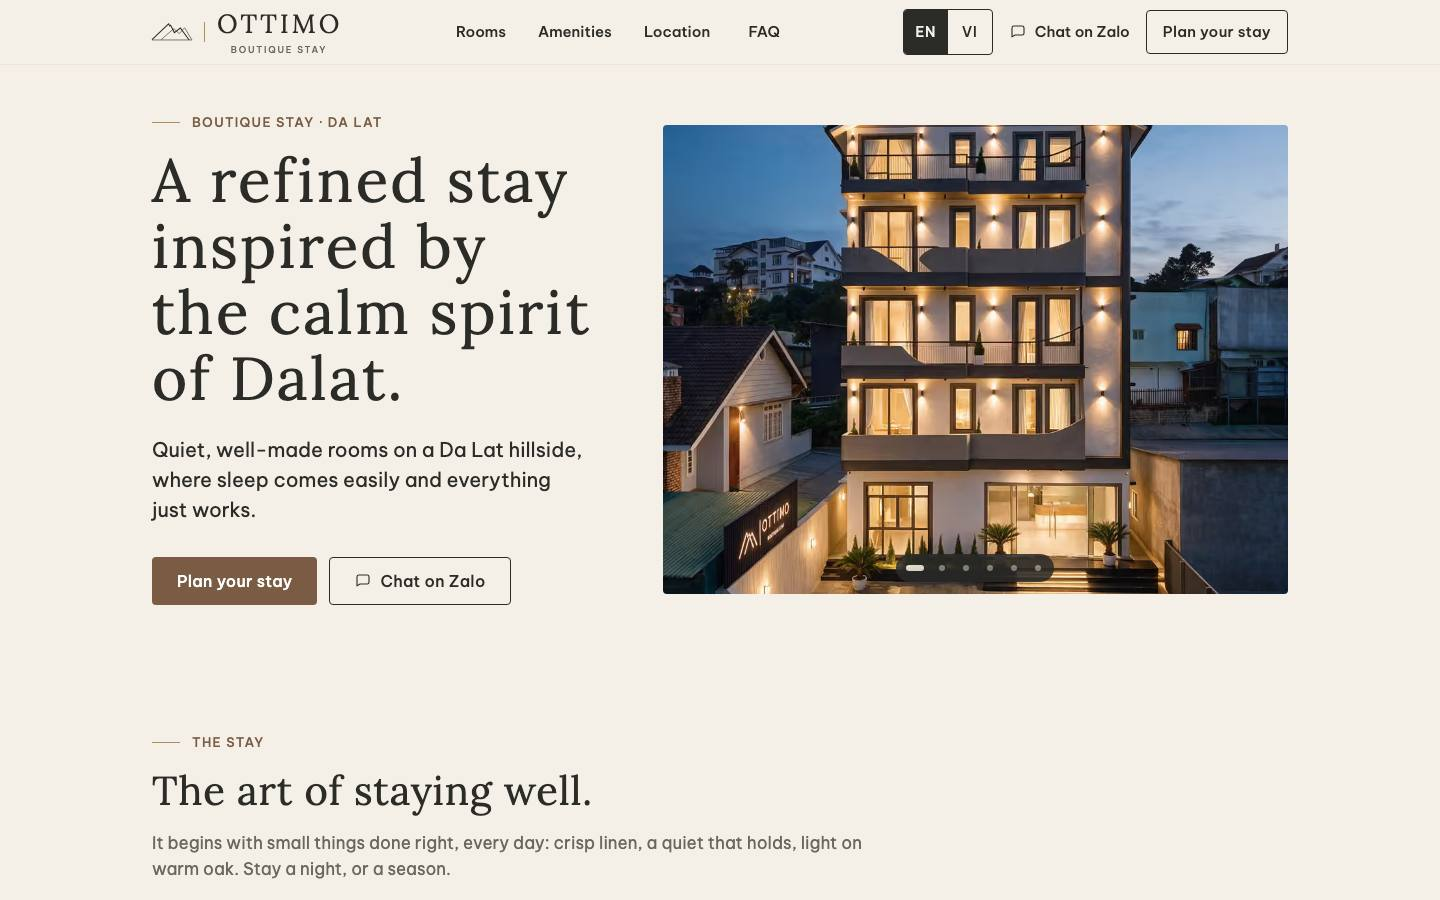
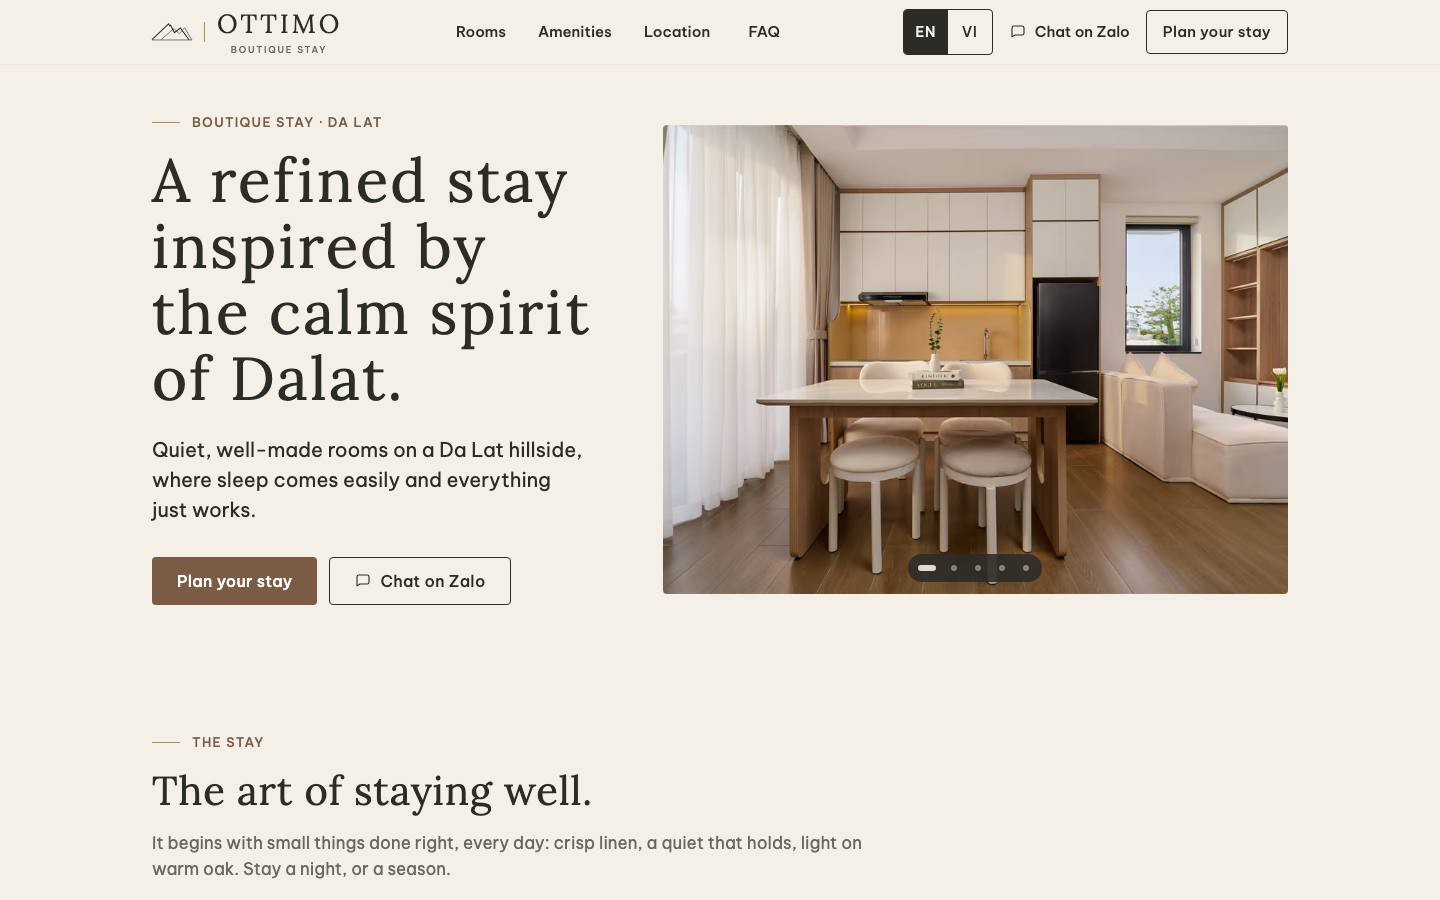
round-3: Phản hồi & sửa – FE-LP hero landscape-only (32/9/37/16/33), facade dusk moved to #book (INV 25/10)
- HERO_PICKS = 32, 9, 37, 16, 33; a portrait pick (< 4/3) stops the build.
  LCP = first slide (signature-dining: 7.3 / 20.0 / 45.2 KB AVIF 480/960/1600),
  preloaded from HERO_SLIDES[0]; dist checks and the Playwright budget read
  the LCP id from the preload (only high-priority fetches count as the hero).
- Hero frame: 3/2 on phones and tablets (whole photo), 4/3 + per-id focus on
  desktop.
- Facade at dusk (picker 4, id hero-facade-dusk) in #book: portrait 4/5
  column on the left on desktop, full width above the steps on phones, lazy.
  OG image unchanged.
- Tests: slide 1 = first landscape pick, every hero photo >= 4/3, LCP/eager
  image rule fixture, hero slides 6 -> 5.

Changed region(s): [[0.4375, 0.1244, 0.9062, 0.6844]]

diff --git a/product/apps/landing-web/src/content/copy.test.ts b/product/apps/landing-web/src/content/copy.test.ts
@@ -5,8 +5,23 @@ import { BANNED } from '../../scripts/dist-checks.mjs';
 import { plain } from '../lib/rich';
 import { BOOKING_STRINGS } from '../scripts/booking-strings';
 import { en } from './en';
-import { AMENITIES_PHOTO, GALLERY_TARGET, HERO_INTERVAL_MS, ROOM_GALLERIES } from './gallery';
-import { HERO_EXCLUDED, HERO_PICKS, HERO_SLIDES, PICKER_SOURCES, photoIdForPick } from './hero';
+import {
+  AMENITIES_PHOTO,
+  BOOK_PHOTO,
+  GALLERY_TARGET,
+  HERO_INTERVAL_MS,
+  ROOM_GALLERIES,
+} from './gallery';
+import {
+  HERO_EXCLUDED,
+  HERO_MIN_RATIO,
+  HERO_PICKS,
+  HERO_SLIDES,
+  PICKER_SOURCES,
+  heroPhotoForPick,
+  photoIdForPick,
+  photoRatio,
+} from './hero';
 import manifest from '../assets/photos/manifest.json';
 import { isOttimoMailbox, site, siteSchema } from './site';
 import raw from './site.json';
@@ -95,7 +110,7 @@ describe('page copy EN + VI', () => {
 
   it('every photo used by the copy has an alt text in both languages', () => {
     const used = [
-      'hero-facade-dusk',
+      BOOK_PHOTO,
       en.why.short.photo,
       en.why.long.photo,
       ...en.rooms.items.map((r) => r.photo),
@@ -116,7 +131,12 @@ describe('page copy EN + VI', () => {
       expect(en.photoAlt[id], `EN alt ${id}`).toBeTruthy();
       expect(vi.photoAlt[id], `VI alt ${id}`).toBeTruthy();
     }
-    expect(HERO_SLIDES[0]).toBe('hero-facade-dusk'); // LCP image stays first (preload in Base.astro, OG image)
+    // LCP image = the first landscape pick (preload in Base.astro); INV 25/10: landscape photos only
+    expect(HERO_SLIDES[0]).toBe(photoIdForPick(HERO_PICKS[0]!));
+    for (const id of HERO_SLIDES)
+      expect(photoRatio(id), `${id} landscape ≥ 4/3`).toBeGreaterThanOrEqual(HERO_MIN_RATIO - 0.01);
+    expect(HERO_SLIDES).not.toContain('hero-facade-dusk'); // the portrait facade lives in #book
+    expect(() => heroPhotoForPick(4)).toThrow(/not landscape/); // a portrait pick stops the build
     expect(new Set(HERO_SLIDES).size).toBe(HERO_SLIDES.length);
     expect(HERO_SLIDES.length).toBeGreaterThanOrEqual(3);
     expect(HERO_INTERVAL_MS).toBe(3000); // INV 22/10
@@ -144,7 +164,13 @@ describe('page copy EN + VI', () => {
     expect(() => photoIdForPick(46)).toThrow(/not a picker number/);
     expect(() => photoIdForPick(1)).toThrow(/optimize-images\.mjs/); // 01a.png is not on the site
     // UXD rule 24/10: editorial photos (The Stay, Amenities, Location) never repeat a hero slide
-    for (const id of [en.why.short.photo, en.why.long.photo, AMENITIES_PHOTO, 'aerial-hillside'])
+    for (const id of [
+      en.why.short.photo,
+      en.why.long.photo,
+      AMENITIES_PHOTO,
+      'aerial-hillside',
+      BOOK_PHOTO,
+    ])
       expect(HERO_SLIDES, `${id} is editorial`).not.toContain(id);
   });
 

diff --git a/product/apps/landing-web/src/content/hero.ts b/product/apps/landing-web/src/content/hero.ts
@@ -56,12 +56,14 @@ export const PICKER_SOURCES: Readonly<Record<number, string>> = {
 };
 
 /**
- * THE ONE PLACE TO CHANGE THE HERO: INV's picker numbers, in order (INV 24/10, CPY concept B 7.2: arrive → live →
- * work → sleep → a smaller room still complete → the shared living room). The first one is the LCP image and must be
- * the photo behind the id `hero-facade-dusk`. A number whose photo is not optimised yet stops the build with the
- * command to run (README "Đổi ảnh đầu trang").
+ * THE ONE PLACE TO CHANGE THE HERO: INV's picker numbers, in order. INV 25/10: **landscape photos only, one photo per
+ * slide** – the portrait facade (picker 4) moved to #book. The first one is the LCP image (preload in Base.astro).
+ * A number whose photo is not optimised yet, or a portrait photo, stops the build (README "Đổi ảnh đầu trang").
  */
-export const HERO_PICKS: readonly number[] = [4, 32, 9, 37, 16, 33];
+export const HERO_PICKS: readonly number[] = [32, 9, 37, 16, 33];
+
+/** Smallest width/height of a hero photo (INV 25/10: landscape only; the desktop frame is 4/3). */
+export const HERO_MIN_RATIO = 4 / 3;
 
 /** Picker numbers INV/CPY ruled out of the hero (FB-INV-003: plants, neighbours' roofs) – copy.test.ts checks. */
 export const HERO_EXCLUDED: readonly number[] = [13, 42, 6, 19, 38];
@@ -80,5 +82,25 @@ export function photoIdForPick(n: number): string {
   return entry.id;
 }
 
+/** Width / height of a photo's largest optimised file (manifest.json). */
+export function photoRatio(id: string): number {
+  const entry = manifest.photos.find((p) => p.id === id);
+  if (!entry) throw new Error(`unknown photo id: ${id}`);
+  const largest = entry.files.reduce((a, b) => (b.width > a.width ? b : a));
+  return largest.width / largest.height;
+}
+
+/** Photo id of a hero pick; throws (= build fails) for a photo that is not landscape ≥ 4/3 (INV 25/10). */
+export function heroPhotoForPick(n: number): string {
+  const id = photoIdForPick(n);
+  // 1600×1067 = 1.4995: compare with a small tolerance for rounding of the encoded height
+  if (photoRatio(id) < HERO_MIN_RATIO - 0.01)
+    throw new Error(
+      `hero photo ${n} (${id}) is not landscape (${photoRatio(id).toFixed(2)} < 4/3): INV 25/10 – landscape only, ` +
+        'use it in another section',
+    );
+  return id;
+}
+
 /** Hero slideshow, in order. The first one is the LCP image (preloaded in layouts/Base.astro). */
-export const HERO_SLIDES: readonly string[] = HERO_PICKS.map(photoIdForPick);
+export const HERO_SLIDES: readonly string[] = HERO_PICKS.map(heroPhotoForPick);

diff --git a/product/tests/e2e/landing/budget.landing.spec.ts b/product/tests/e2e/landing/budget.landing.spec.ts
@@ -63,11 +63,14 @@ async function measure(browser: Browser, c: Case) {
   await cdp.send('Network.enable');
   await cdp.send('Network.setCacheDisabled', { cacheDisabled: true });
   const urls = new Map<string, string>();
+  const priority = new Map<string, string>();
   const headerBytes = new Map<string, number>();
+  const done: { url: string; body: number; priority: string }[] = [];
   let bytes = 0;
-  let hero = 0;
-  let heroFetches = 0;
-  cdp.on('Network.requestWillBeSent', (e) => urls.set(e.requestId, e.request.url));
+  cdp.on('Network.requestWillBeSent', (e) => {
+    urls.set(e.requestId, e.request.url);
+    priority.set(e.requestId, e.request.initialPriority);
+  });
   // At responseReceived, encodedDataLength = bytes received so far = the response headers.
   cdp.on('Network.responseReceived', (e) =>
     headerBytes.set(e.requestId, e.response.encodedDataLength),
@@ -75,15 +78,33 @@ async function measure(browser: Browser, c: Case) {
   cdp.on('Network.loadingFinished', (e) => {
     const body = e.encodedDataLength - (headerBytes.get(e.requestId) ?? 0);
     bytes += body;
-    if (/hero-facade-dusk/.test(urls.get(e.requestId) ?? '')) {
-      hero += body;
-      heroFetches += 1;
-    }
+    done.push({
+      url: urls.get(e.requestId) ?? '',
+      body,
+      priority: priority.get(e.requestId) ?? '',
+    });
   });
   await page.goto(c.path, { waitUntil: 'load' });
   await page.waitForLoadState('networkidle');
   await page.waitForTimeout(300);
   const open = bytes;
+  // The hero = the photo the page preloads (first hero slide, INV 25/10: no longer a fixed id). Counted among the
+  // high-priority fetches only: the same photo may load again later, lazily (low priority), as a room cover.
+  const lcpId = await page.evaluate(() => {
+    const link = document.querySelector<HTMLLinkElement>('link[rel="preload"][as="image"]');
+    const first =
+      (link?.getAttribute('imagesrcset') ?? '').split(',')[0]!.trim().split(/\s+/)[0] ?? '';
+    return first
+      .split('/')
+      .pop()!
+      .replace(/-\d+\.[\w-]+\.avif$/, '');
+  });
+  expect(lcpId, 'the page preloads its hero photo').not.toBe('');
+  const heroHits = done.filter(
+    (d) => d.url.includes(`/${lcpId}-`) && /^(VeryHigh|High)$/.test(d.priority),
+  );
+  const hero = heroHits.reduce((n, d) => n + d.body, 0);
+  const heroFetches = heroHits.length;
   await page.evaluate(async () => {
     const step = Math.floor(window.innerHeight * 0.8);
     for (let y = 0; y < document.documentElement.scrollHeight; y += step) {

diff --git a/product/apps/landing-web/src/styles/landing.css b/product/apps/landing-web/src/styles/landing.css
@@ -582,10 +582,11 @@ h1 {
   margin-inline: calc(var(--gutter) * -1);
   border-radius: 0;
 }
+/* INV 25/10: landscape photos only – phones show the whole 3:2 photo (nothing cropped: washer-dryer in 37, fridge
+   in 33 stay in view). Was 4/5 + max-height 30svh for the portrait facade. */
 .hero-media img {
-  aspect-ratio: 4/5;
-  max-height: 30svh;
-  object-position: 50% 58%;
+  aspect-ratio: 3/2;
+  object-position: 50% 50%;
 }
 .hero-text h1 {
   margin: 0 0 var(--s5);
@@ -639,9 +640,6 @@ h1 {
     object-position: 50% 50%;
   }
   /* Per-photo focus on the 4/3 desktop frame. Ids without a rule stay centred (5.5 % lost each side). */
-  .hero-media img.hero-img--hero-facade-dusk {
-    object-position: 50% 60%; /* 4 – all balconies, sign, entrance */
-  }
   .hero-media img.hero-img--signature-dining {
     object-position: 50% 50%; /* 32 */
   }
@@ -1195,10 +1193,31 @@ table.dist {
   }
 }
 
-/* 6 · Book – how it works + request form (or the Zalo/call block while the form is off) */
+/* 6 · Book – the facade at dusk (portrait, picker 4 – INV 25/10), how it works + request form (or the Zalo/call
+   block while the form is off). Phones: the photo full width above the steps, 4/5. Desktop: a portrait column on the
+   left (Location has its photo on the right). object-position keeps the roof and the entrance steps in the frame. */
 .book {
   display: grid;
   gap: var(--s7);
+}
+.book-main {
+  display: grid;
+  gap: var(--s7);
+}
+.book-pic {
+  margin-inline: calc(var(--gutter) * -1);
+  border-radius: 0;
+}
+.book-pic img {
+  aspect-ratio: 4/5;
+  object-position: 50% 70%;
+}
+@media (min-width: 768px) {
+  .book-pic {
+    margin-inline: 0;
+    border-radius: var(--r);
+    max-width: 480px; /* tablet: a full-width 4/5 photo would fill more than a screen */
+  }
 }
 .steps {
   margin: var(--s5) 0 var(--s5);
@@ -1246,9 +1265,10 @@ table.dist {
     gap: var(--s8);
     align-items: start;
   }
-  .book-intro {
+  .book-pic {
     position: sticky;
     top: calc(var(--header-h) + var(--s6));
+    max-width: none;
   }
 }
 .bk-card {

diff --git a/product/apps/landing-web/src/checks/dist-checks.test.ts b/product/apps/landing-web/src/checks/dist-checks.test.ts
@@ -113,6 +113,35 @@ describe('dist checks catch violations', () => {
     expect(problems).toMatch(/\/vi\/: "hotel\/khách sạn" 1×/);
   });
 
+  it('images: the only eager <img> is the preloaded hero (LCP id read from the preload), with fetchpriority=high', () => {
+    const preload =
+      '<link rel="preload" as="image" imagesrcset="/_astro/room-a-480.X1.avif 480w, /_astro/room-a-960.X2.avif 960w">';
+    const img = (src: string, extra: string) =>
+      `<img src="/_astro/${src}" width="3" height="2" alt="A room" ${extra}>`;
+    const ok = site({
+      'index.html': page(
+        '<h1>x</h1>' +
+          img('room-a-960.X3.webp', 'fetchpriority="high"') +
+          img('room-a-960.X3.webp', 'loading="lazy"'),
+        preload,
+      ),
+    });
+    expect(checks.checkImages(ok)).toEqual([]);
+    const bad = site({
+      'index.html': page(
+        '<h1>x</h1>' +
+          img('room-b-960.X4.webp', 'fetchpriority="high"') +
+          img('room-a-960.X3.webp', ''),
+        preload,
+      ),
+    });
+    const problems = checks.checkImages(bad).join('\n');
+    expect(problems).toMatch(/2 eager <img>/);
+    expect(problems).toMatch(/room-b-960.*not lazy/);
+    expect(problems).toMatch(/room-a-960.*not lazy/); // eager but no fetchpriority=high
+    expect(checks.lcpPhotoId(ok.html[0]!)).toBe('room-a');
+  });
+
   it('a terracotta accent, a named colour and rgb() in CSS', () => {
     const d = site({
       'index.html': page('<h1>x</h1><svg><path fill="#C0634A"></path></svg>'),

diff --git a/product/tests/e2e/landing/gallery.landing.spec.ts b/product/tests/e2e/landing/gallery.landing.spec.ts
@@ -22,8 +22,8 @@ const currentDot = (page: Page) =>
 /** Index of the slide that fills the track (what the guest sees). */
 const visibleSlide = (page: Page) =>
   page.locator('[data-car-track]').evaluate((t) => Math.round(t.scrollLeft / t.clientWidth));
-/** Hero photos = HERO_PICKS in landing-web src/content/hero.ts (INV may send another set: 6 since 24/10). */
-const SLIDES = 6;
+/** Hero photos = HERO_PICKS in landing-web src/content/hero.ts (INV 25/10: 5 landscape photos). */
+const SLIDES = 5;
 
 test.describe('TC-LP-019 hero slideshow (R3-Q52)', () => {
   test('advances on its own every 3 s after load; the next photo loads only shortly before', async ({

diff --git a/product/apps/landing-web/src/content/gallery.ts b/product/apps/landing-web/src/content/gallery.ts
@@ -11,6 +11,12 @@ import type { RoomSlug } from './types';
  */
 export const AMENITIES_PHOTO = 'signature-laundry-dining';
 
+/**
+ * Portrait facade at dusk (picker 4) in #book since 25/10 – INV: the hero shows landscape photos only. Id kept from
+ * its hero days (OG image `pnpm og` and the optimiser use it).
+ */
+export const BOOK_PHOTO = 'hero-facade-dusk';
+
 /** Seconds between two hero photos (INV 22/10: "mỗi 3 giây"). */
 export const HERO_INTERVAL_MS = 3000;
 

diff --git a/rounds/round-03/outputs/FE/landing-b.md b/rounds/round-03/outputs/FE/landing-b.md
@@ -240,3 +240,71 @@ In đậm = ảnh mới ở lượt này. Tất cả qua `optimize-images.mjs --
 - `gallery-city-1440.jpg`, `gallery-city-390.jpg`, `gallery-premium-1440.jpg`, `gallery-premium-390.jpg`: hộp xem ảnh đang mở, ảnh 1/6.
 - `gallery-city-1440-card.jpg`, `gallery-city-390-card.jpg`, `gallery-premium-1440-card.jpg`, `gallery-premium-390-card.jpg`: thẻ hạng có nhãn "6 photos".
 - `gallery-city-grid.jpg`, `gallery-premium-grid.jpg`: lưới 6 ảnh đúng thứ tự, có id.
+
+## 12. Ảnh đầu trang chỉ dùng ảnh ngang; mặt tiền chuyển xuống `#book` (INV 25/10)
+
+INV không chấp nhận ảnh mặt tiền đứng (số 4) bị cắt ở đầu trang và không chọn ghép đôi/khung tranh. Chốt: **ảnh đầu trang chỉ dùng ảnh ngang, mỗi slide một ảnh**.
+
+### 12.1 Đầu trang
+- `HERO_PICKS = [32, 9, 37, 16, 33]`: 5 slide. Ảnh LCP = slide 1 = ảnh 32 `signature-dining`.
+
+  | Slide | Số ảnh | id |
+  |---|---|---|
+  | 1 (LCP) | 32 | `signature-dining` |
+  | 2 | 9 | `detail-kitchen` |
+  | 3 | 37 | `signature-bedroom-desk` |
+  | 4 | 16 | `garden-navy-kitchen` |
+  | 5 | 33 | `signature-living-oak` |
+
+- **Chặn ảnh đứng lúc build:** `heroPhotoForPick` dừng build nếu ảnh có tỉ lệ < 4/3.
+- **Ảnh LCP không còn cố định theo id:**
+  - `Base.astro` preload `HERO_SLIDES[0]`;
+  - dist-check lấy id ảnh LCP từ thẻ preload: đúng một `<img>` eager, phải là ảnh đó và có `fetchpriority=high`; mọi ảnh khác lazy; có ca thử vi phạm;
+  - Playwright ngân sách cũng đọc id từ thẻ preload và chỉ đếm lượt tải ưu tiên cao. Lý do: ảnh 32 còn là bìa thẻ Signature, tải lazy ở mức ưu tiên thấp, không được tính nhầm vào ảnh LCP.
+- **Khung ảnh:**
+  - Máy tính (≥ 1024 px) giữ 4/3 + `object-position` từng id; bỏ rule của ảnh mặt tiền.
+  - Điện thoại và máy tính bảng dùng 3/2 (trước là 4/5 + `max-height: 30svh`, đặt cho ảnh mặt tiền đứng). Ảnh 3:2 hiện trọn ở 390 px: ảnh 37 thấy máy giặt sấy, ảnh 33 thấy tủ lạnh (`hero-390-en-slide3.jpg`, `hero-390-en-slide5.jpg`). Không cần `object-position` riêng ở điện thoại.
+- **Byte ảnh LCP (ảnh 32, AVIF q50 sẵn có, không cần mã hóa riêng):**
+
+  | Cỡ file | Dùng cho | Dung lượng | Giới hạn |
+  |---|---|---|---|
+  | 480 px | điện thoại DPR1 | 7,3 KB | 20 KB |
+  | 960 px | điện thoại DPR2/3, máy tính DPR1 | 20,0 KB | 50 KB |
+  | 1600 px | máy tính DPR2 | 45,2 KB | 120 KB |
+
+- Ảnh chia sẻ link (OG) giữ ảnh mặt tiền hiện tại, không đổi.
+
+### 12.2 Mặt tiền ở `#book`
+- Ảnh số 4 giữ id `hero-facade-dusk` (để `pnpm og` và tool khỏi đổi), khai báo `BOOK_PHOTO` trong `gallery.ts`. Lazy-load, không ảnh hưởng LCP. Alt EN/VI giữ câu cũ.
+- **Máy tính:** cột ảnh đứng 4/5 bên **trái** (Vị trí có ảnh bên phải), dính theo khi cuộn. Bên phải là tiêu đề, 3 bước và khối Zalo/gọi (hoặc form khi bật).
+- **Điện thoại:** ảnh tràn hết chiều ngang, khung 4/5, đặt trên tiêu đề và 3 bước. `object-position: 50% 70%`: cắt bớt trời, giữ trọn mái, mọi ban công, biển OTTIMO, bậc thềm và cổng (`book-390-en.jpg`, `book-390-vi.jpg`).
+- **Máy tính bảng:** ảnh rộng tối đa 480 px, để khung 4/5 không chiếm quá một màn hình.
+- Không trùng ảnh mục Vị trí (ảnh flycam, giữ). Test thêm: ảnh `#book` không được là slide đầu trang (quy tắc ảnh biên tập của UXD).
+
+### 12.3 Test và kết quả
+- `copy.test.ts`:
+  - slide 1 = ảnh ngang đầu tiên của `HERO_PICKS`;
+  - mọi ảnh đầu trang có tỉ lệ ≥ 4/3;
+  - mặt tiền không ở đầu trang;
+  - `heroPhotoForPick(4)` phải dừng build;
+  - ảnh `#book` nằm trong danh sách ảnh biên tập.
+- `dist-checks.test.ts`: ca thử mới cho luật ảnh eager/LCP.
+- E2E đầu trang: số slide 6 → 5.
+- **Kết quả kiểm:**
+  - typecheck 0 lỗi;
+  - ESLint, Prettier sạch;
+  - Vitest 204/204;
+  - Playwright landing 54/54 (axe, CSP, không cuộn ngang 320–1280, ngân sách).
+- **Ngân sách (Playwright, KB = 1024 B):**
+
+  | Trường hợp | Ảnh LCP (giới hạn) | Mở trang (giới hạn) | Cuộn hết (giới hạn) |
+  |---|---|---|---|
+  | Điện thoại EN DPR1 | 7,3 (20) | 187,5 (250) | 232,2 (350) |
+  | Điện thoại EN DPR2 | 20 (50) | 268,7 (320) | 413,2 (600) |
+  | Điện thoại VI DPR2 | 20 (50) | 298,3 (390) | 442,8 (670) |
+  | Máy tính EN DPR1 | 20 (50) | 255 (400) | 299,8 (600) |
+  | Máy tính EN DPR2 | 45,2 (120) | 396,8 (700) | 541,3 (1100) |
+
+### 12.4 Ảnh chụp (`landing-b-shots/`)
+- `hero-1440-en-slide1…5.jpg`, `hero-390-en-slide1…5.jpg`. Ảnh đầu trang cũ (6 slide, 1024, VI slide 1) đã xóa vì không còn đúng.
+- `book-1440-en.jpg`, `book-390-en.jpg`, `book-390-vi.jpg`.
